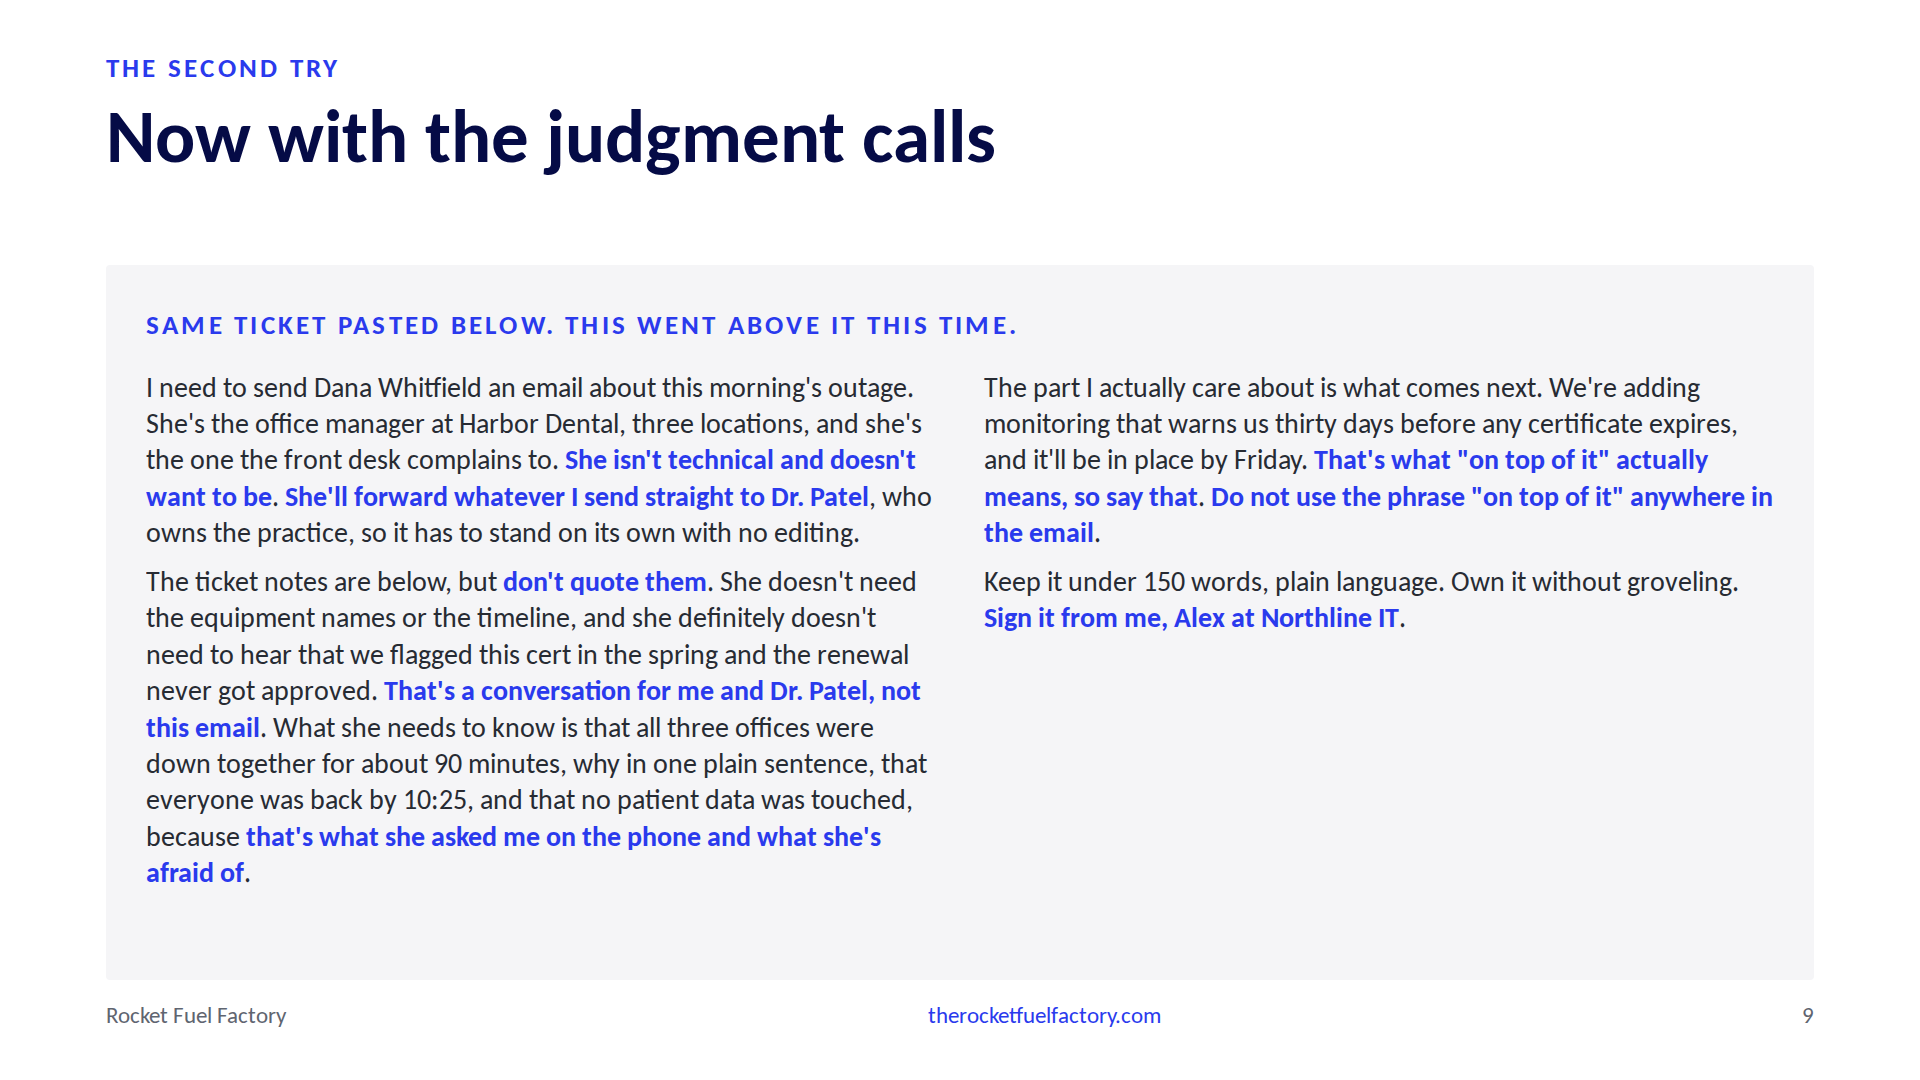
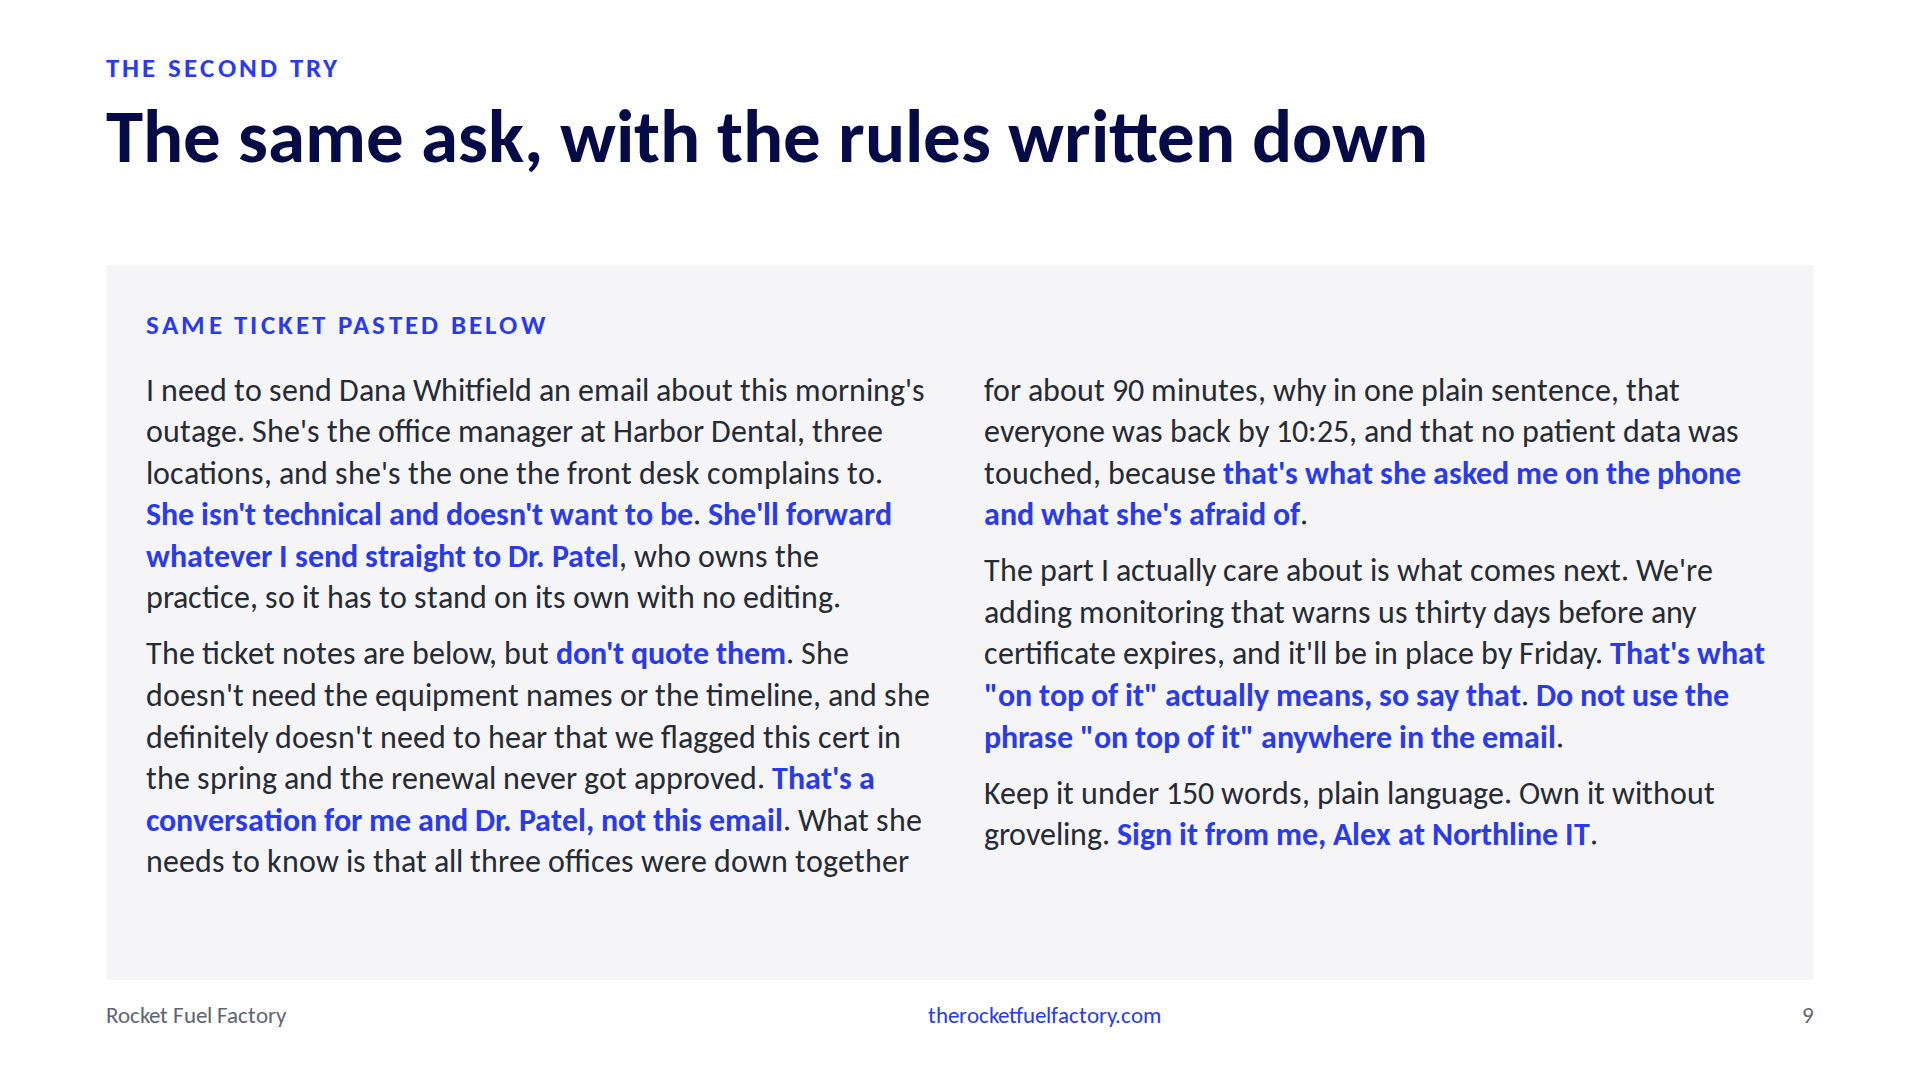
Slide 9: rules-written-down title, brief flows across columns at 32px, note as spoken words

Changed region(s): [[0.0625, 0.3361, 0.9375, 0.825], [0.0312, 0.0917, 0.75, 0.1528], [0.2812, 0.275, 0.5312, 0.3056]]

diff --git a/src/data/notes.js b/src/data/notes.js
@@ -11,7 +11,7 @@ export const notes = {
   'the-demo-never-had-a-client': 'Target 4:00. I have sat through a lot of these. Somebody types a sentence, something gorgeous appears. Nobody in the demo checks whether the details are right, because in a demo nobody has to. And if you go back and watch one of those videos carefully, the presenter does not stop at one sentence either. They come back with more instructions. That part just gets cut short. So I go back to work and try it the same way, one sentence and a paste. What comes back is real effort and a reasonable guess at what I meant, and I would not send it. Here is what that looks like.',
   'demo-weak': 'Target 4:40. This is how most of us do it. One line, and paste the ticket under it. The ticket has everything a tech would need: the full waiting room, the FortiGate, Phase 1, DigiCert, and that line near the bottom about the Q2 review where nobody approved the renewal. My best tech reads that and knows what to leave out. The AI has no idea who Dana is.',
   'demo-weak-output': 'Target 5:30. Dana opens this. The first thing is that it looks right. Ticket number, headers, the shape of a real incident report. Then the blue line. That is the one sentence in that ticket I would never put in front of a client. It says we knew, and nobody acted on it. And it is now in an email Dana forwards to the dentist who owns the practice. I ran this three times. Two of the three had that line. I never told it that line was off limits. It had no way to know.',
-  'demo-brief': 'Target 8:25. Now you know what to say. Same ticket pasted underneath; these are the words that went above it, in plain prose. Point at what the machine asked for and you supplied: who Dana is and that she forwards it to Dr. Patel, do not quote the ticket, the Q2 conversation is for me and the owner, no patient data because that is what she asked on the phone, and on top of it means monitoring by Friday. This is delegating.',
+  'demo-brief': 'Target 8:10. Same ticket, pasted underneath again. This is what went above it this time. Everything in blue is an answer to one of the five questions. Who Dana is, and that she forwards whatever we send to Dr. Patel, the dentist who owns the practice. Do not quote the ticket. The Q2 conversation is for us and Dr. Patel, not this email. No patient data was touched, because that is what she asked on the phone. And what on top of it actually means: monitoring in place by Friday. That is the rule written down. This is delegating.',
   'demo-strong': 'Target 9:40. Loud punchline: same tool, same task, the only thing that changed was how you asked. Under 150 words, Dr. Patel named, forwardable. Then the bridge, one breath, before the click. That is communication: hand over the judgment calls, not just the facts. Now take it to something bigger than an email. When you say we set up new users, what you have is a ticket with the facts. The judgment calls are in someone\'s head. You just saw what happens when you hand that to a machine. Click.',
   'demo-ask': 'Target 6:30. Here is what worked. We did not type try again, and we did not fix the email ourselves. We asked it what we should have told it in the first place. It gave us five things. Who is actually reading this, and what is their relationship to the outage. What on top of it was supposed to mean. Whether the Q2 detail was a feature or a liability. What tone. Whether there was a business ask riding along. We knew the answer to every one of those before we typed a word. We just never wrote them down. And it owned the leak. It called the Q2 sentence the single riskiest line in the ticket, said it could read either as we caught this or as we knew and did nothing, and admitted it had made that call for us without asking. It knew it was guessing. It will tell you, if you ask. Try this tonight on the last answer that disappointed you.',
   'aharons-law': 'Target 10:40. SLOW. Say the law, credit Aharon, two full seconds of silence. Then: I have been quoting this for years and it means something different every time. Here is what it means today. Click.',

diff --git a/src/components/layouts/PromptOutputSlide.jsx b/src/components/layouts/PromptOutputSlide.jsx
@@ -71,7 +71,7 @@ function renderInline(line, key, emphasize = [], emphasisClass = '') {
 
 // Blank source lines become paragraph gaps (about a third of a line) instead
 // of full empty lines, which is what buys the room-legible font size.
-function Paragraphs({ lines, fontSize, columns, emphasize, emphasisClass }) {
+function Paragraphs({ lines, fontSize, columns, emphasize, emphasisClass, flow = false }) {
   const paras = []
   let cur = []
   for (const l of lines) {
@@ -89,7 +89,7 @@ function Paragraphs({ lines, fontSize, columns, emphasize, emphasisClass }) {
       style={{ fontSize, columnCount: columns, columnGap: 48 }}
     >
       {paras.map((p, i) => (
-        <p key={i} className={i === 0 ? '' : 'mt-[0.45em]'} style={{ breakInside: 'avoid' }}>
+        <p key={i} className={i === 0 ? '' : 'mt-[0.45em]'} style={{ breakInside: flow ? 'auto' : 'avoid' }}>
           {p.map((l, j) => (
             <span key={j}>
               {renderInline(l, j, emphasize, emphasisClass)}
@@ -102,7 +102,7 @@ function Paragraphs({ lines, fontSize, columns, emphasize, emphasisClass }) {
   )
 }
 
-function Panel({ label, labelClass, text, lines, fontSize, columns, style, emphasize, emphasisClass }) {
+function Panel({ label, labelClass, text, lines, fontSize, columns, style, emphasize, emphasisClass, flow }) {
   const w = sliceLines(text, lines)
   return (
     <div
@@ -111,7 +111,7 @@ function Panel({ label, labelClass, text, lines, fontSize, columns, style, empha
     >
       {label && <p className={`text-[27px] font-bold uppercase tracking-[0.12em] ${labelClass}`}>{label}</p>}
       <div className={`${label ? 'mt-[24px]' : ''} min-h-0 flex-1 overflow-hidden`}>
-        <Paragraphs lines={w.lines} fontSize={fontSize} columns={columns} emphasize={emphasize} emphasisClass={emphasisClass} />
+        <Paragraphs lines={w.lines} fontSize={fontSize} columns={columns} emphasize={emphasize} emphasisClass={emphasisClass} flow={flow} />
       </div>
 
     </div>
@@ -142,6 +142,7 @@ export default function PromptOutputSlide({
   punchlineQuoted = false,
   footnote,
   panelTop = TOP,
+  promptFlow = false,
 }) {
   const hasExtraLine = Boolean(punchline || footnote)
   const bottom = FOOTER_TOP - BOTTOM_MARGIN - (hasExtraLine ? (punchlineQuoted ? QUOTED_LINE_SPACE : EXTRA_LINE_SPACE) : 0)
@@ -168,6 +169,7 @@ export default function PromptOutputSlide({
           style={leftStyle}
           emphasize={promptEmphasize}
           emphasisClass={labelClass}
+          flow={promptFlow}
         />
       )}
       {only !== 'prompt' && (

diff --git a/src/components/slides/009-DemoBrief.jsx b/src/components/slides/009-DemoBrief.jsx
@@ -7,13 +7,14 @@ export default function DemoBrief({ slideNumber }) {
   return (
     <PromptOutputSlide
       eyebrow="The second try"
-      title="Now with the judgment calls"
+      title="The same ask, with the rules written down"
       accent="blue"
       slideNumber={slideNumber}
       only="prompt"
-      askLabel="Same ticket pasted below. This went above it this time."
+      askLabel="Same ticket pasted below"
       prompt={withoutTim(strongBrief)}
-      promptFontSize={28}
+      promptFontSize={32}
+      promptFlow
       promptColumns={2}
       promptEmphasize={[
         "She isn't technical and doesn't want to be",

diff --git a/docs/OUTLINE.md b/docs/OUTLINE.md
@@ -43,7 +43,7 @@ Closing line: If you can't write the rule, you can't hire your way out of it eit
 6. How most people prompt (full-width ask; eyebrow: one sentence and a paste). What owners actually do: one line ("Write an email to the client about this. Apologize and let them know we're on top of it.") above a pasted PSA ticket. The ticket has everything a tech needs: full waiting room, FGT-60F, Phase 1, DigiCert, and the aside that this cert was flagged in the Q2 review and nobody approved the renewal. Every fact.
 7. What the client would have received (full-width output, whole, two columns). Ticket number in the subject. Incident-report headers. Placeholder sign-off. And in blue, the machine's own sentence to Dana: this certificate had actually been flagged for renewal in our Q2 review, and we're correcting the gap that let it lapse. The one line in the ticket you would never put in front of a client, now in an email she forwards to the practice owner. Reran it three times: disclosed twice, hidden once, you did not get a vote either way. Footer: it leaked that line in two of three runs, and you had no say in which. Note ends: I never told it that line was off limits. It had no way to know. Dr. Patel is not named until slide 9; here he is the dentist who owns the practice. No eyebrow or panel label; the email gets the room.
 8. Ask it how to ask better (prompt/output; eyebrow: how to get unstuck). The path beat. Tim's follow-up prompt verbatim; the model's five items verbatim: who is reading, what on top of it meant, whether the Q2 detail was a feature or a liability, tone, any business ask. Footer: every one of those is a rule you already had in your head. The model's admission about the leak (riskiest line in the ticket, a 50/50 call it made without asking) is paraphrased in the note as proof it knew it was guessing. Close: try this tonight on the last answer that disappointed you.
-9. Now with the judgment calls (full brief). Earned by the previous slide. Same ticket pasted underneath; these are the words that went above it, in prose: who Dana is and that she forwards to Dr. Patel; do not quote the ticket; the Q2 conversation is for me and the owner, not this email; no patient data touched because that is what she asked on the phone; what on top of it actually means, monitoring by Friday. This is delegating.
+9. The same ask, with the rules written down (full brief). Earned by the previous slide. Same ticket pasted underneath; these are the words that went above it, in prose: who Dana is and that she forwards to Dr. Patel; do not quote the ticket; the Q2 conversation is for me and the owner, not this email; no patient data touched because that is what she asked on the phone; what on top of it actually means, monitoring by Friday. This is delegating.
 10. Forwardable without edits (full output). Under 150 words, Dr. Patel named. Loud: same tool, same task, the only thing that changed was how you asked. Bridge to Aharon, spoken: that is communication, hand over the judgment calls, not just the facts. Now take it to something bigger than an email. When you say we set up new users, what you have is a ticket with the facts; the judgment calls are in someone's head. You just saw what happens when you hand that to a machine.
 
 11. Aharon's first law (pull statement). SLOW. You can't automate a process that doesn't exist. Aharon Chernin, Rewst. The meaning here: exists means has been said out loud. The law is not about the shop with no process; it is about the shop that thinks it has one and actually has a person who knows what the owner meant. The first automation attempt is the first receiver that cannot nod and fill in the blanks, which is why it is worth doing even if it never ships. Nothing failed; you found out cheaply. Then click to the Mike example, which is where the meaning lands on a shop instead of a prompt.
